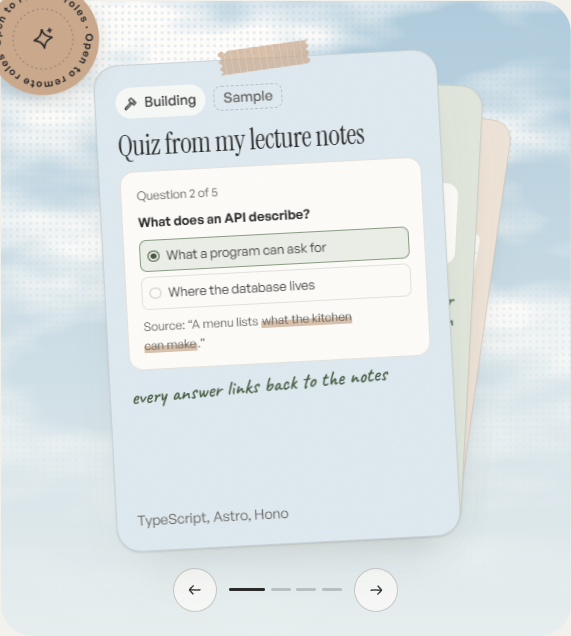
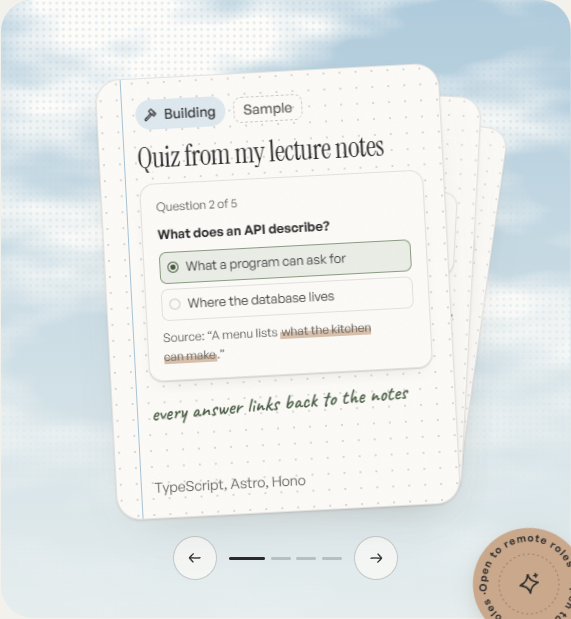
docs: hero card revision, before/after screenshots

diff --git a/ARCHITECTURE.md b/ARCHITECTURE.md
@@ -89,7 +89,7 @@ Paralel dengan itu, `integrations/sample-report.ts` membaca frontmatter langsung
 
 **Hero stack:** `getHeroCards()` mengambil proyek teratas, entri /now terbaru, dan tulisan terbaru, lalu selalu menambahkan card asli "This site". Kata kerja kalimat hero mengikuti status proyek (idea → planning, building → building, shipped → improving). Field opsional `phrase` di proyek/tulisan dipakai untuk kalimat, dengan fallback judul berkutip. Kalau card depan adalah sample, kalimatnya ikut berlabel Sample.
 
-**Isi card (notebook):** `HeroCardFace` menggambar isi spesifik per jenis card. Field opsional di konten: `heroNote` (catatan tangan, proyek/tulisan/now), `highlight` (frasa yang distabilo di paragraf pembuka artikel, diambil otomatis dari body), `snippet` (kode di entri /now). Tanpa field itu, card tetap tampil tanpa elemen tersebut.
+**Isi card (notebook):** card adalah halaman kertas dot-grid dengan garis margin berwarna aksen (`HeroStack`). `HeroCardFace` menggambar isi spesifik per jenis card sebagai "printout" lurus, ditambah checklist (progres situs dari `siteProgress` di `site.ts`, topik belajar lain dari /now) yang disembunyikan di layar < 768px. Field opsional di konten: `heroNote` (catatan tangan, proyek/tulisan/now), `highlight` (frasa yang distabilo di paragraf pembuka artikel, diambil otomatis dari body), `snippet` (kode di entri /now). Tanpa field itu, card tetap tampil tanpa elemen tersebut.
 
 ## 4. Design tokens
 
@@ -252,6 +252,7 @@ Card stack **tidak pernah autoplay**. Durasi 150–400ms. `prefers-reduced-motio
 ## 7. Konvensi
 
 - **Penamaan:** komponen `PascalCase.astro`; modul `lib/` `camelCase.ts`; token CSS `kebab-case`; slug konten `kebab-case` (menjadi URL).
+- **Urutan @media:** aturan `@media` yang menimpa harus ditulis **setelah** aturan dasarnya (specificity sama → yang terakhir menang). Bug ini sudah terjadi dua kali (foto About, checklist hero).
 - **Styling:** Tailwind untuk layout/spacing sederhana di halaman. Efek kompleks (notch, glass, card) memakai `<style>` scoped di komponen dengan `var(--token)`. Hindari nama kelas yang bentrok dengan utility Tailwind (kasus nyata: `.underline`).
 - **Scan Tailwind:** Tailwind hanya memindai kode. `docs/`, `.claude/`, dan `*.md` di root dikecualikan dengan `@source not` di `global.css`, karena teks dokumentasi sempat menghasilkan ±2 KB kelas CSS yang tidak terpakai.
 - **Scoped CSS + komponen anak:** selector yang menargetkan root komponen anak butuh `:global()`. Untuk mengubah warna di dalam komponen anak, gunakan custom property (contoh: `--badge-fg` di `SampleBadge`), bukan selector dari luar.

diff --git a/docs/progress.md b/docs/progress.md
@@ -27,7 +27,7 @@
 - 2026-09-25 — Hero: konsep **A (card stack) + baris logistik** dari C.
 - 2026-09-25 — Zona waktu **WIB (UTC+7)**. Jam/minggu & tanggal mulai **tidak ditampilkan** (belum pasti).
 - 2026-09-25 — Bukti non-sample di layar pertama: **github.com/build-zaidana**.
-- 2026-09-25 — Card hero bergaya **Notebook** (option 1 dari 2 mockup): isi spesifik per entri, catatan tangan, stabilo, selotip washi, tekstur kertas.
+- 2026-09-25 — Card hero bergaya **Notebook** (option 1 dari 2 mockup): kertas dot-grid + garis margin berwarna aksen, isi spesifik per entri, catatan tangan, stabilo. Selotip washi dihapus (user: kurang bagus).
 - 2026-09-25 — Font tulisan tangan **Caveat** (self-host, 1 bobot), hanya untuk catatan margin.
 - 2026-09-25 — Ikon "build" diganti **palu** (wrench terbaca seperti bulan sabit).
 - 2026-09-25 — Nav memakai "Projects" (bukan "Work") supaya konsisten dengan URL & tombol.
@@ -166,4 +166,15 @@ User: ikon wrench terlihat seperti bulan sabit bertangkai; card stack terlalu po
 - 🔑 Tekstur kertas tanpa gambar — svg feTurbulence data uri · mix-blend-mode multiply
 - 🔑 Selotip dengan ujung sobek — css clip-path polygon · repeating-linear-gradient
 - Catatan kerja: dev server kadang menahan CSS lama setelah file diedit lewat skrip; `touch <file>` memaksa watcher memuat ulang.
+
+#### Revisi kedua card hero (2026-09-25)
+User: "ada yang kurang pas", selotip jelek, minta tekstur. Diagnosis 4 masalah → semua dikerjakan:
+1. Setengah card kosong → card lebih pendek (3:3.85), kutipan artikel lebih panjang, checklist asli (progres situs dari `siteProgress`, topik belajar lain).
+2. Card pastel melebur dengan langit pastel → badan card = kertas (`--surface-raised`) + dot-grid + garis margin berwarna aksen; pastel pindah ke chip.
+3. Gaya/sudut bercampur → preview jadi "printout" lurus berbayangan tipis; hanya catatan tangan yang miring.
+4. Stiker berebut sudut dengan selotip → selotip dihapus; stiker di kanan bawah (desktop) / kanan atas (mobile, supaya tidak menutupi tombol Next).
+- Perbandingan: `docs/screenshots/fase-2/hero-cards-before-after.png`. Semua card utuh di 360/390/1440px, tanpa scroll horizontal.
+- 🔑 Kertas dot-grid tanpa gambar — css radial-gradient pattern · background-size · multiple backgrounds
+- 🔑 Aturan @media harus setelah aturan dasar yang ditimpa — css cascade source order · specificity
+- 🔑 Kutipan artikel dari beberapa paragraf — markdown excerpt · text truncation
 

diff --git a/docs/keywords.md b/docs/keywords.md
@@ -64,6 +64,9 @@
 | `css clip-path polygon` | CSS | HeroCardFace (selotip sobek) | 2 |
 | `repeating-linear-gradient` | CSS | HeroCardFace (selotip, kertas bergaris) | 2 |
 | `overflow: clip` | CSS | Hero (frame di mobile) | 2 |
+| `css radial-gradient pattern` | CSS | HeroStack (kertas dot-grid) | 2 |
+| `multiple backgrounds` | CSS | HeroStack (garis margin + titik + kertas) | 2 |
+| `css cascade source order` | CSS | HeroCardFace, about (bug urutan @media) | 2 |
 
 ## Design / Typography
 
